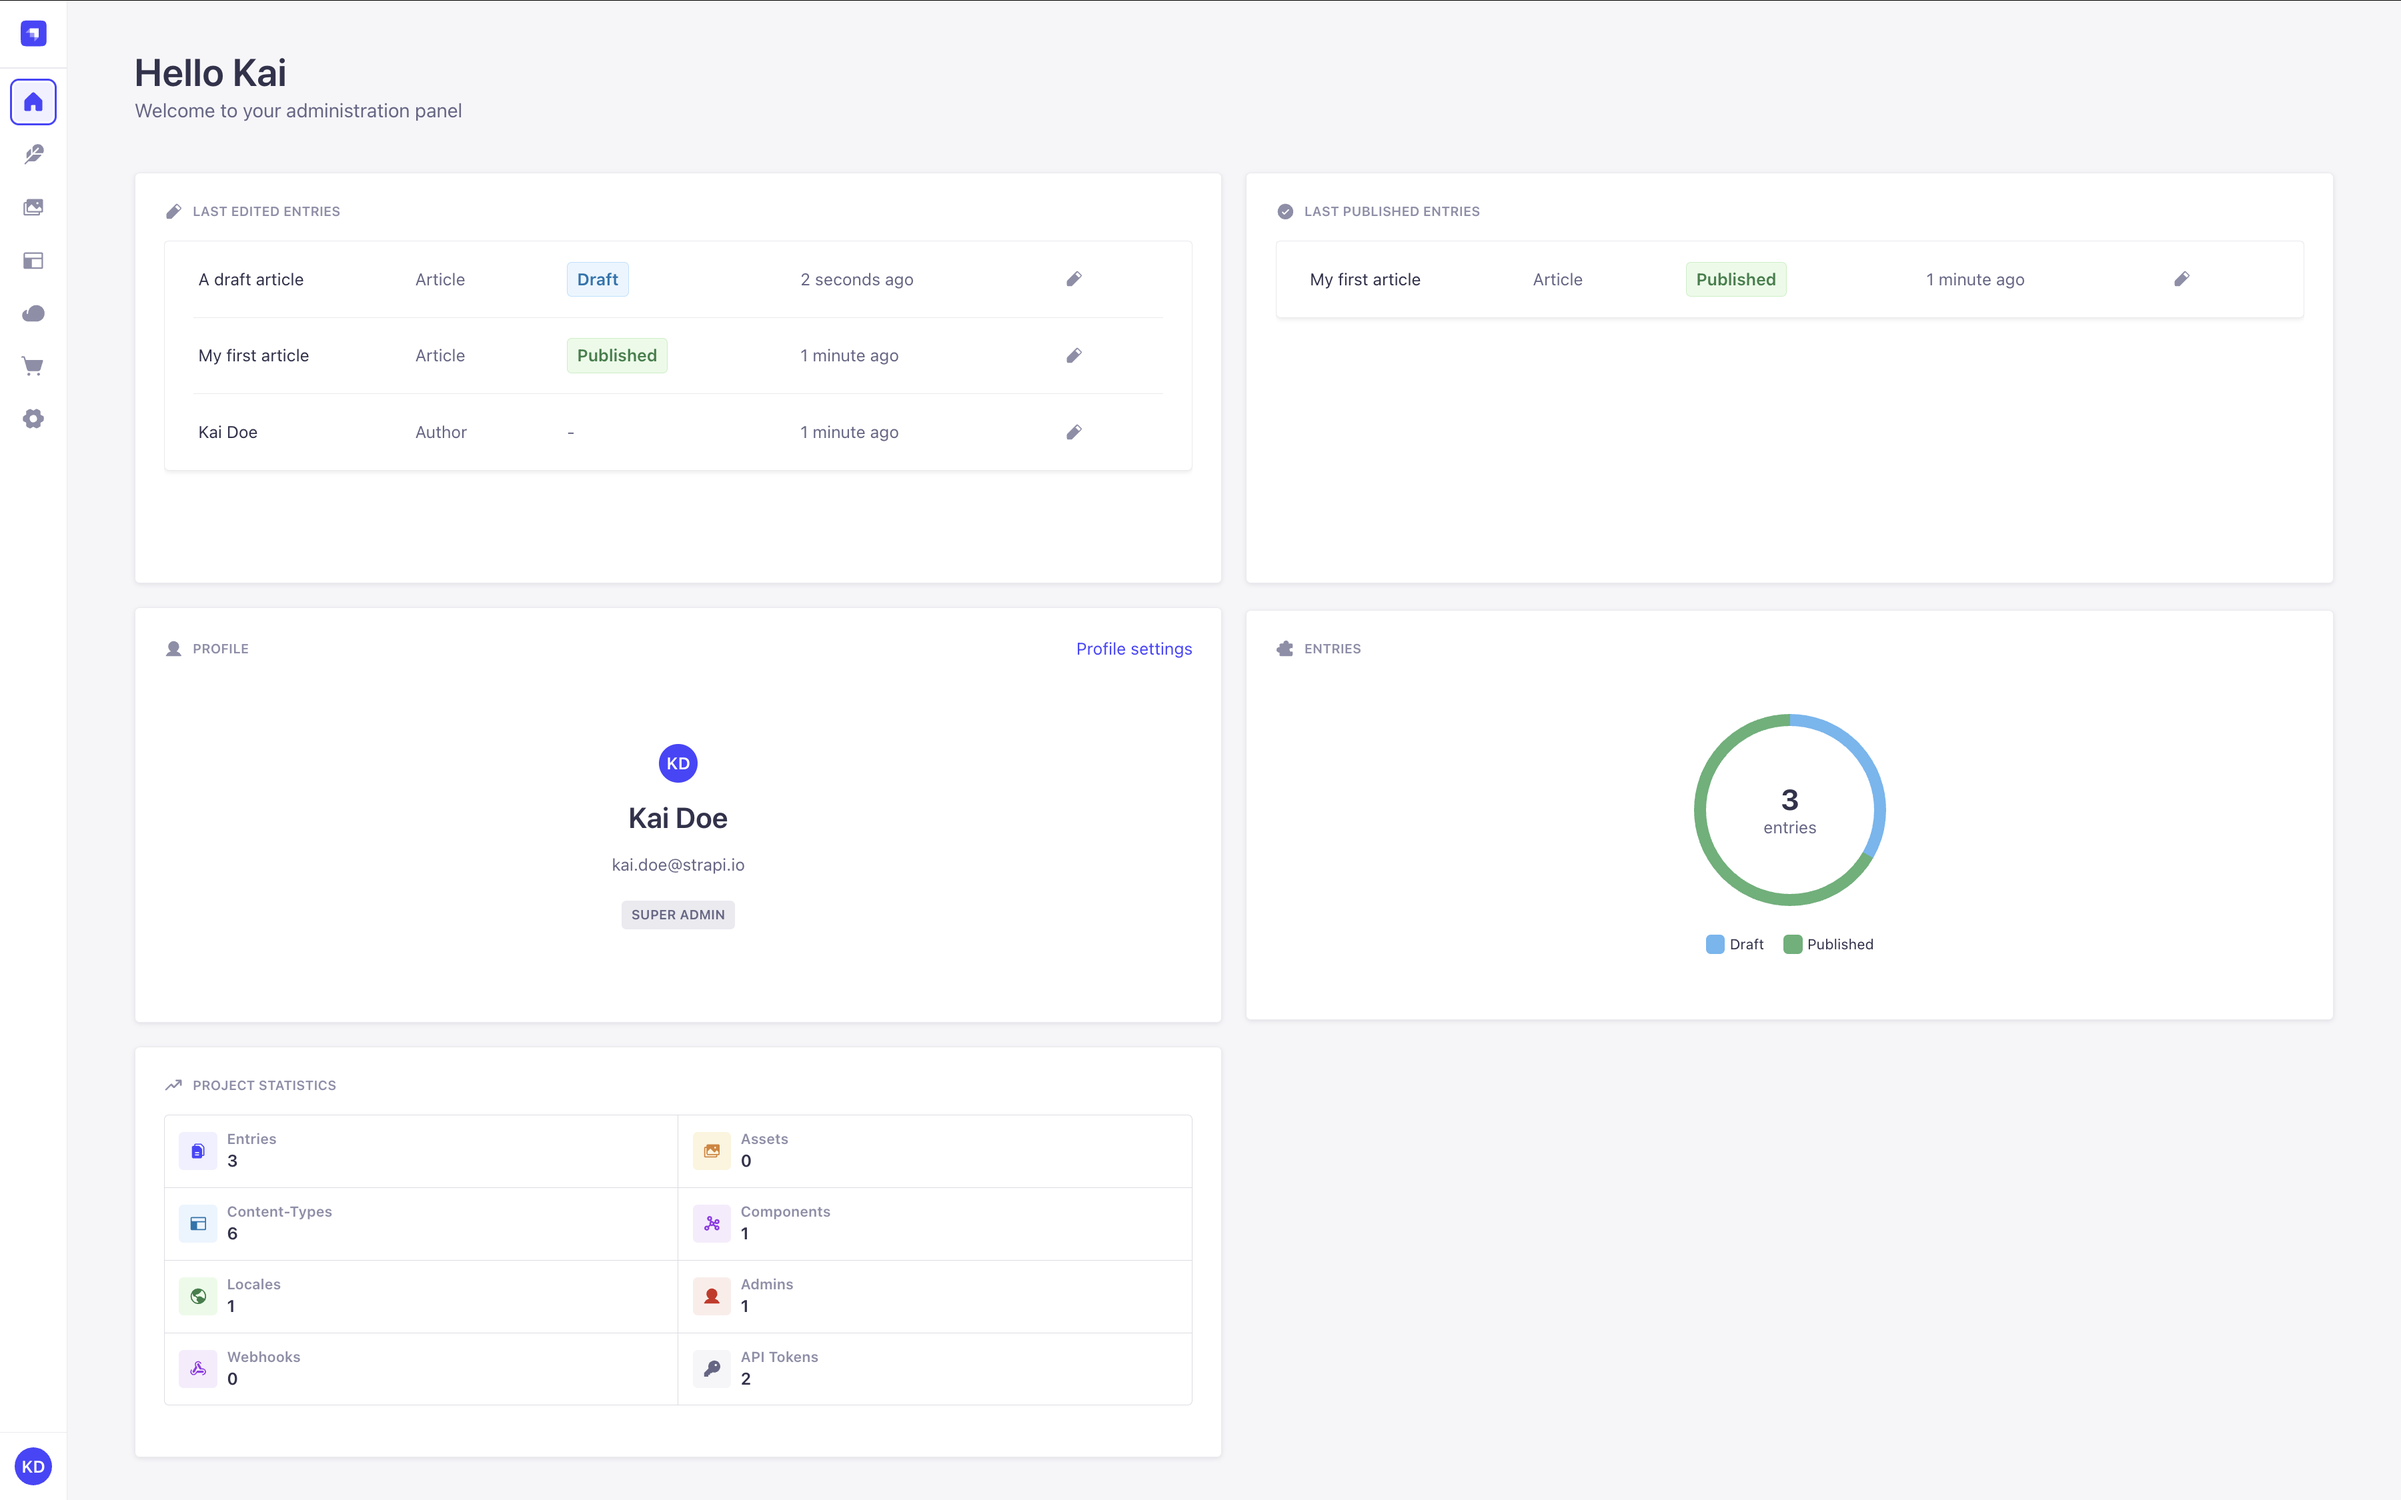
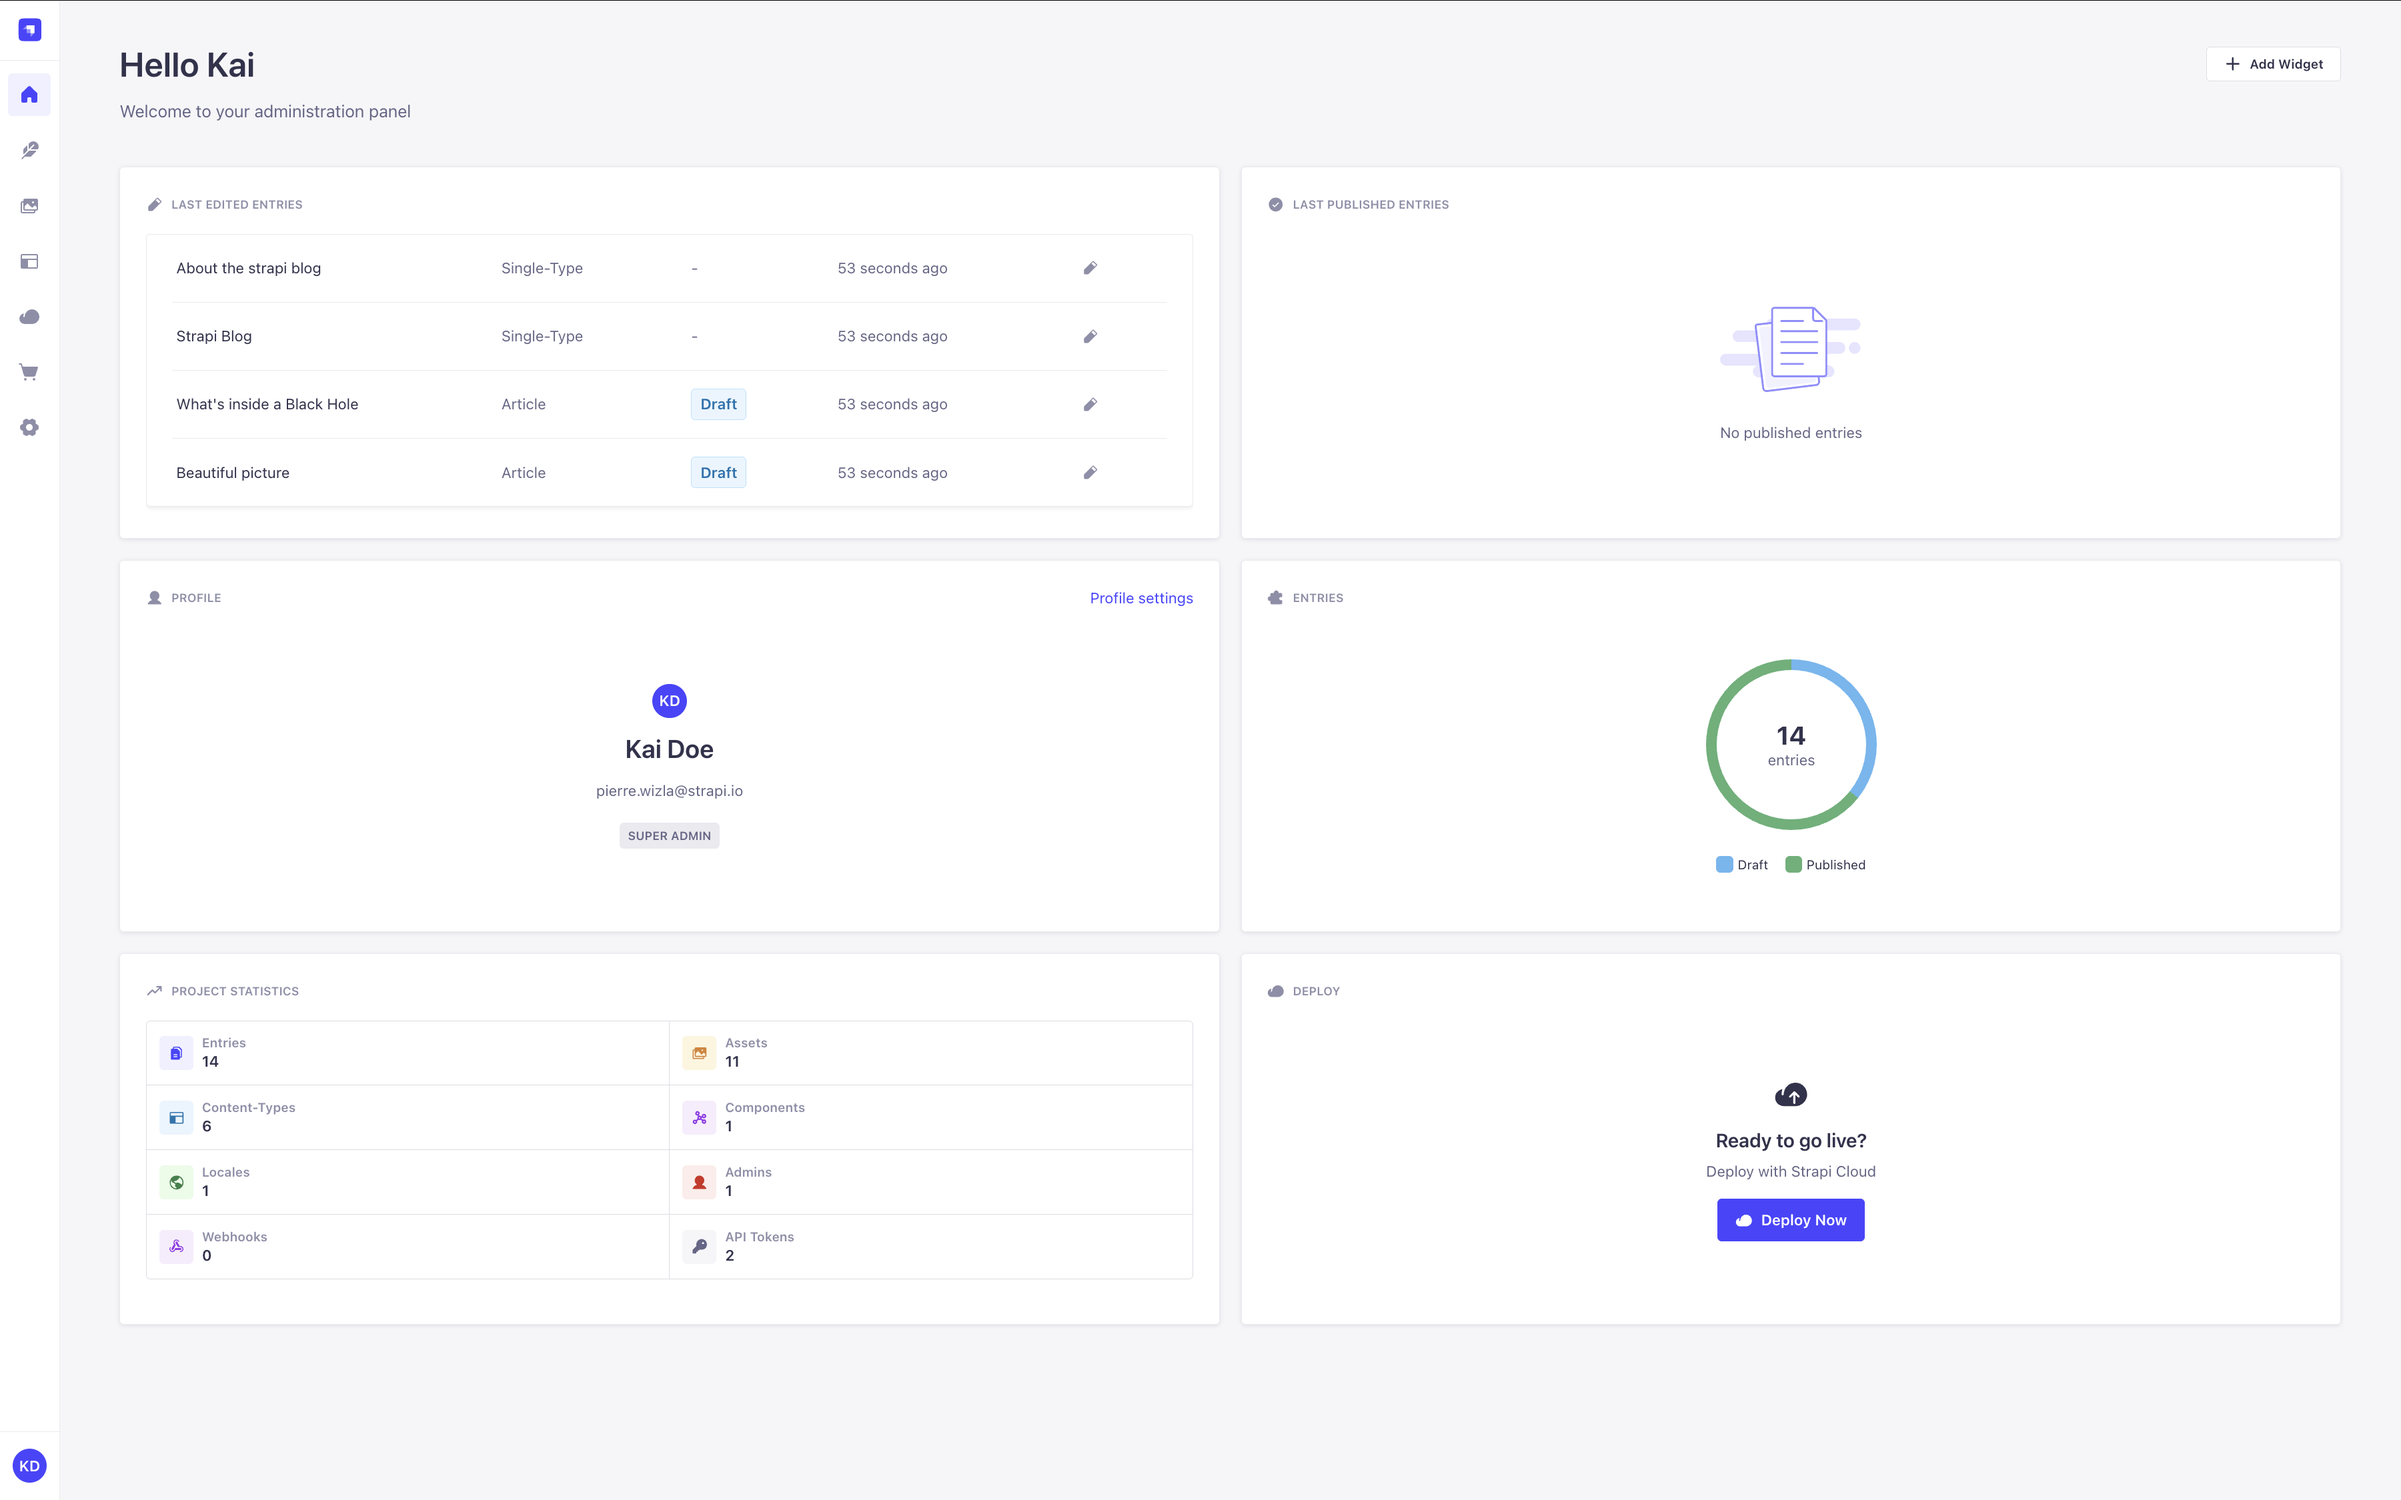
Document Deploy widget on homepage (#3106)
* Document Deploy widget on homepage (strapi/strapi#25774)

* Update screenshots

---------

diff --git a/docusaurus/docs/cms/admin-panel-customization/homepage.md b/docusaurus/docs/cms/admin-panel-customization/homepage.md
@@ -10,19 +10,20 @@ tags:
 ---
 
 # Homepage customization
-<VersionBadge version="5.13.0+" tooltip="Adding custom widgets is available since Strapi 5.13.0. The newest widgets (profile, entries, statistics) are available from Strapi 5.23.0."/>
+<VersionBadge version="5.13.0+" tooltip="Adding custom widgets is available since Strapi 5.13.0. The profile, entries, and statistics widgets are available from Strapi 5.23.0. The Deploy widget is available from Strapi 5.44.0."/>
 
 <Tldr>
 The admin panel homepage displays default content and profile widgets and supports custom additions through the `app.widgets.register` API.
 </Tldr>
 
-The <Icon name="house" /> Homepage is the landing page of the Strapi admin panel. By default, it provides an overview of your content with 5 default widgets:
+The <Icon name="house" /> Homepage is the landing page of the Strapi admin panel. By default, it provides an overview of your content with 6 default widgets:
 
 - _Last edited entries_: Displays recently modified content entries, including their content type, status, and when they were updated.
 - _Last published entries_: Shows recently published content entries, allowing you to quickly access and manage your published content.
 - _Profile_: Displays a short summary of your profile, including your name, email address, and role.
 - _Entries_: Displays the total number of Draft & Published entries.
 - _Project statistics_: Displays statistics about your entries, content-types, locales, assets, and more.
+- _Deploy_: Displays a **Deploy Now** button that links to [Strapi Cloud](https://cloud.strapi.io/login) for deploying your project.
 
 
 <ThemedImage
